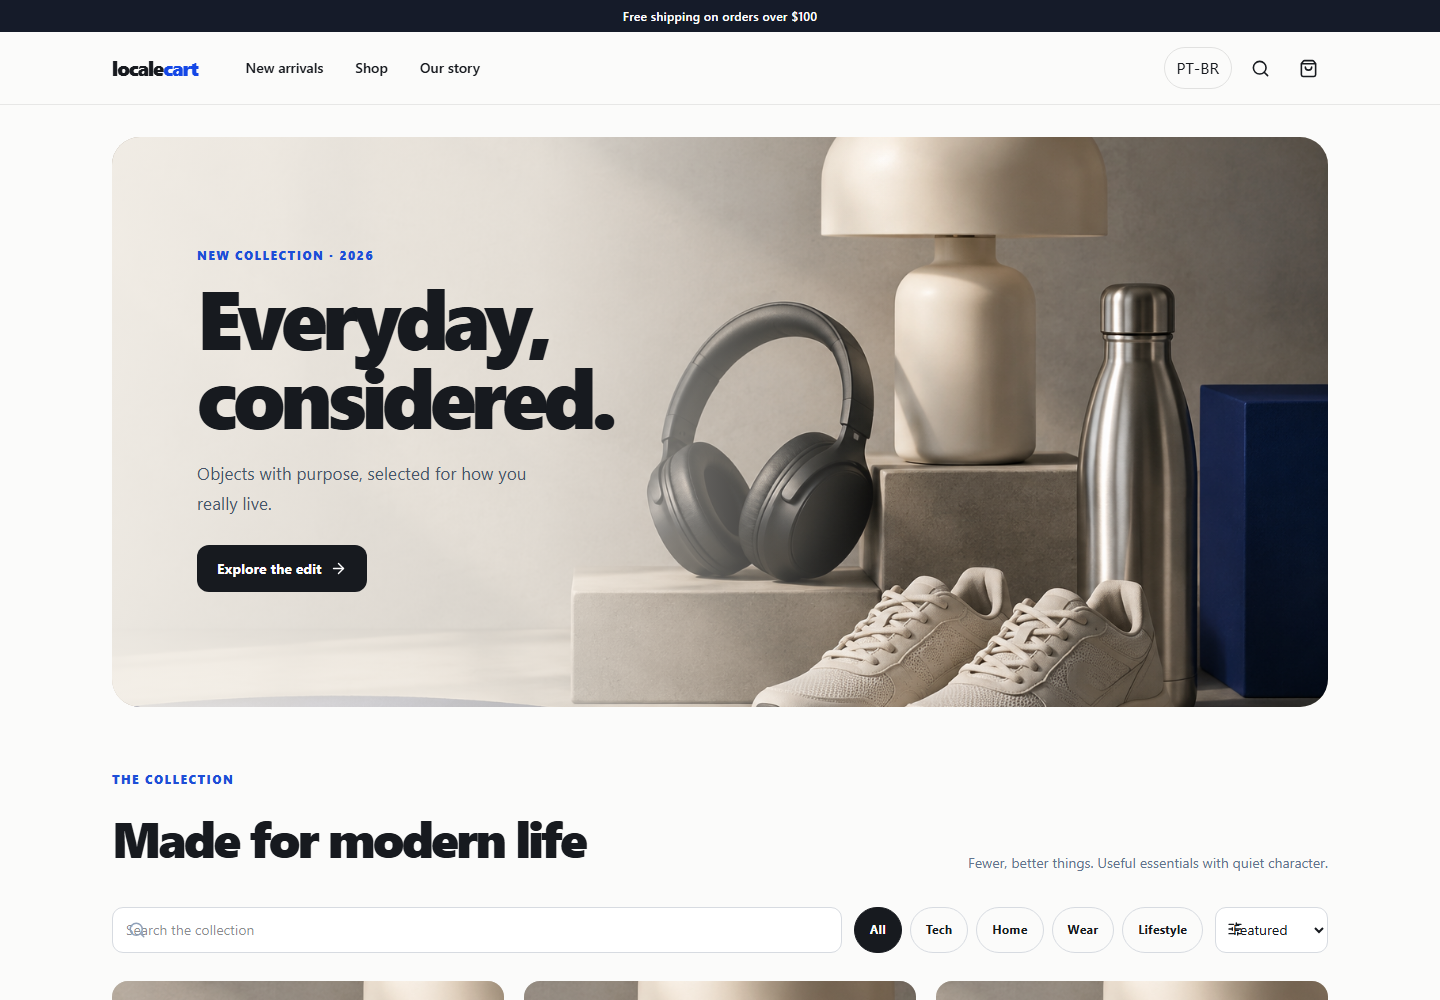
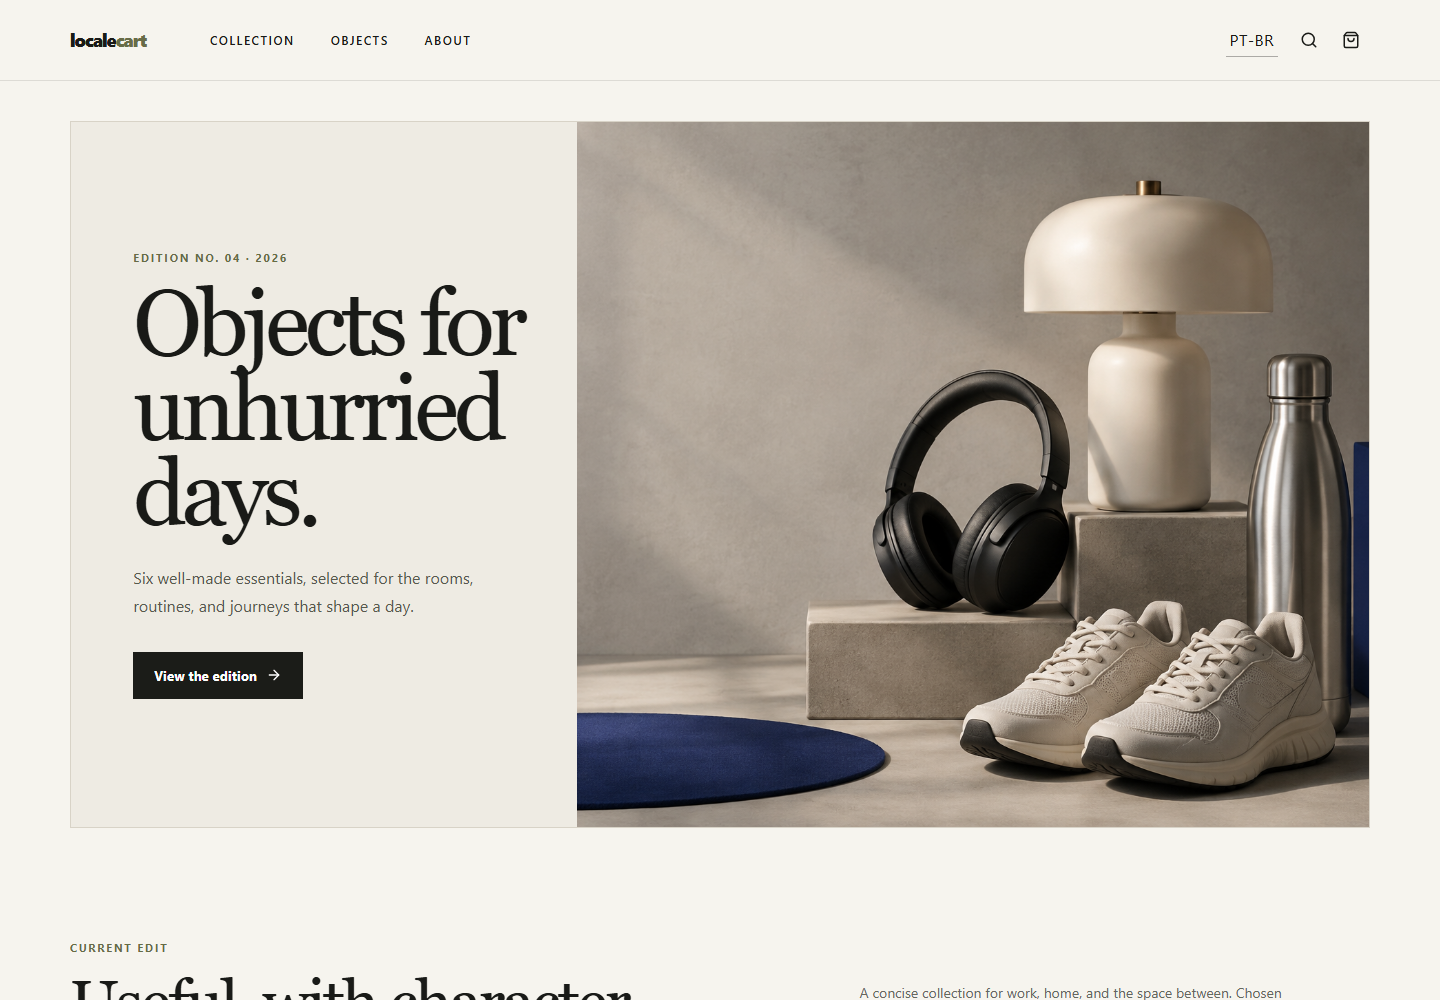
style: refine visual identity and portfolio presentation

diff --git a/src/styles.css b/src/styles.css
@@ -1,2 +1,65 @@
 @import "tailwindcss";
-:root{font-family:Inter,ui-sans-serif,system-ui,-apple-system,"Segoe UI",sans-serif;background:#fbfbfa;color:#171a1f;font-synthesis:none}*{box-sizing:border-box}html{scroll-behavior:smooth}body{margin:0;min-width:320px}button,input,select{font:inherit}button{cursor:pointer}.icon-btn{display:grid;height:40px;width:40px;place-items:center;border-radius:999px}.icon-btn:hover{background:#eef0f3}.cart-count{position:absolute;right:-1px;top:-2px;display:grid;height:18px;min-width:18px;place-items:center;border-radius:99px;background:#1d4ed8;padding:0 4px;font-size:10px;color:white}.hero{position:relative;min-height:570px;overflow:hidden;border-radius:28px;background:#ded8cf}.hero>img{position:absolute;inset:0;height:100%;width:100%;object-fit:cover}.hero:after{content:"";position:absolute;inset:0;background:linear-gradient(90deg,rgba(245,241,234,.92) 0%,rgba(245,241,234,.72) 35%,transparent 65%)}.hero-copy{position:relative;z-index:1;max-width:520px;padding:110px 7%}.hero-copy h1,.product-title{font-size:clamp(2.7rem,6vw,5.2rem);line-height:.95;font-weight:850;letter-spacing:-.065em}.hero-copy>p:not(.eyebrow){margin-top:24px;max-width:430px;font-size:1.08rem;line-height:1.7;color:#475569}.eyebrow{margin-bottom:12px;font-size:.72rem;font-weight:800;letter-spacing:.15em;text-transform:uppercase;color:#1d4ed8}.btn-dark{display:inline-flex;align-items:center;justify-content:center;gap:9px;border-radius:12px;background:#171a1f;padding:13px 20px;color:#fff;font-size:.875rem;font-weight:750}.hero .btn-dark{margin-top:28px}.section-title{font-size:clamp(2rem,4vw,3.1rem);font-weight:820;letter-spacing:-.05em}.field{width:100%;height:46px;border:1px solid #d7dbe1;border-radius:11px;background:white;padding:0 13px;font-size:.875rem;outline:none}.field:focus{border-color:#2563eb;box-shadow:0 0 0 3px #2563eb1a}.chip{white-space:nowrap;border:1px solid #d7dbe1;border-radius:999px;padding:10px 15px;font-size:.78rem;font-weight:700}.chip.active{border-color:#171a1f;background:#171a1f;color:white}.variant{display:inline-flex;align-items:center;gap:7px;border:1px solid #d7dbe1;border-radius:9px;padding:10px 14px;font-size:.82rem;font-weight:700}.variant.active{border-color:#1d4ed8;background:#eff6ff;color:#1d4ed8}.product-title{font-size:clamp(2.6rem,5vw,4.5rem)}.quantity{display:flex;align-items:center;border:1px solid #d7dbe1;border-radius:10px}.quantity button,.product-title+div button{padding:10px}.quantity svg,.product-title+div svg{width:15px}.quantity span{min-width:30px;text-align:center;font-weight:700}.empty{display:flex;min-height:65vh;flex-direction:column;align-items:center;justify-content:center;gap:18px;padding:30px;text-align:center}.empty h1{font-size:clamp(2rem,5vw,3.5rem);font-weight:850;letter-spacing:-.05em}.empty p{max-width:520px;line-height:1.7;color:#64748b}@media(max-width:700px){.hero{min-height:520px}.hero:after{background:linear-gradient(90deg,rgba(245,241,234,.93),rgba(245,241,234,.75))}.hero>img{object-position:65% center;opacity:.55}.hero-copy{padding:90px 24px}.hero-copy h1{font-size:3rem}}
+
+:root {
+  font-family: Inter, ui-sans-serif, system-ui, -apple-system, "Segoe UI", sans-serif;
+  background: #f6f4ee;
+  color: #191a17;
+  font-synthesis: none;
+}
+
+* { box-sizing: border-box; }
+html { scroll-behavior: smooth; }
+body { margin: 0; min-width: 320px; background: #f6f4ee; }
+button, input, select { font: inherit; }
+button { cursor: pointer; }
+.serif { font-family: Georgia, "Times New Roman", serif; }
+
+.icon-btn { display: grid; height: 38px; width: 38px; place-items: center; border-radius: 0; }
+.icon-btn:hover { background: #ebe8df; }
+.cart-count { position: absolute; right: -1px; top: -2px; display: grid; height: 17px; min-width: 17px; place-items: center; border-radius: 99px; background: #8b4f3f; padding: 0 4px; font-size: 10px; color: white; }
+
+.hero { position: relative; min-height: 610px; overflow: hidden; border: 1px solid #d8d3c7; background: #eeebe3; }
+.hero > img { position: absolute; inset: 0 0 0 auto; height: 100%; width: 61%; object-fit: cover; object-position: 64% center; }
+.hero::after { display: none; }
+.hero-copy { position: relative; z-index: 1; width: 47%; max-width: 570px; padding: 128px 4.8%; }
+.hero-copy h1, .product-title { font-family: Georgia, "Times New Roman", serif; font-size: clamp(3.1rem, 6.4vw, 6rem); line-height: .92; font-weight: 500; letter-spacing: -.055em; }
+.hero-copy > p:not(.eyebrow) { margin-top: 28px; max-width: 390px; font-size: 1rem; line-height: 1.75; color: #57594f; }
+.eyebrow { margin-bottom: 15px; font-size: .68rem; font-weight: 750; letter-spacing: .17em; text-transform: uppercase; color: #666b45; }
+.btn-dark { display: inline-flex; align-items: center; justify-content: center; gap: 9px; border-radius: 0; background: #1b1c18; padding: 14px 21px; color: #fff; font-size: .8rem; font-weight: 720; letter-spacing: .02em; }
+.btn-dark:hover { background: #5e6243; }
+.hero .btn-dark { margin-top: 32px; }
+.section-title { font-family: Georgia, "Times New Roman", serif; font-size: clamp(2.5rem, 4.5vw, 4rem); font-weight: 500; line-height: 1; letter-spacing: -.045em; }
+
+.field { width: 100%; height: 44px; border: 0; border-bottom: 1px solid #aaa99f; border-radius: 0; background: transparent; padding: 0 10px; font-size: .82rem; outline: none; }
+.field:focus { border-color: #5e6243; box-shadow: none; }
+.chip { white-space: nowrap; border: 0; border-bottom: 1px solid transparent; border-radius: 0; padding: 11px 8px 8px; font-size: .75rem; font-weight: 680; color: #77786f; }
+.chip.active { border-color: #1b1c18; background: transparent; color: #1b1c18; }
+.variant { display: inline-flex; align-items: center; gap: 7px; border: 1px solid #b9b8ae; border-radius: 0; padding: 10px 14px; font-size: .78rem; font-weight: 680; }
+.variant.active { border-color: #626747; background: #e8eadf; color: #4f5436; }
+.product-title { font-size: clamp(2.8rem, 5vw, 4.8rem); }
+.quantity { display: flex; align-items: center; border: 1px solid #b9b8ae; border-radius: 0; }
+.quantity button, .product-title + div button { padding: 10px; }
+.quantity svg, .product-title + div svg { width: 15px; }
+.quantity span { min-width: 30px; text-align: center; font-weight: 700; }
+.empty { display: flex; min-height: 65vh; flex-direction: column; align-items: center; justify-content: center; gap: 18px; padding: 30px; text-align: center; }
+.empty h1 { font-family: Georgia, "Times New Roman", serif; font-size: clamp(2.4rem, 5vw, 4rem); font-weight: 500; letter-spacing: -.04em; }
+.empty p { max-width: 520px; line-height: 1.7; color: #696b61; }
+.rounded-3xl { border-radius: 2px !important; }
+.rounded-2xl { border-radius: 2px !important; }
+.rounded-xl { border-radius: 1px !important; }
+.bg-\[\#f1f2f4\] { background-color: #ebe8df !important; }
+.text-blue-700, .text-blue-800, .text-blue-600 { color: #666b45 !important; }
+.bg-blue-50 { background-color: #eceee4 !important; }
+
+@media (min-width: 1024px) {
+  .product-grid > a:first-child { grid-column: span 2; }
+  .product-grid > a:first-child > div:first-child { aspect-ratio: 2 / 1.15; }
+}
+
+@media (max-width: 700px) {
+  .hero { display: flex; min-height: auto; flex-direction: column-reverse; }
+  .hero > img { position: relative; width: 100%; height: 330px; object-position: 65% center; }
+  .hero-copy { width: 100%; max-width: none; padding: 52px 24px 48px; }
+  .hero-copy h1 { max-width: 330px; font-size: 3.6rem; }
+  .hero-copy > p:not(.eyebrow) { max-width: 310px; }
+}

diff --git a/src/pages/HomePage.tsx b/src/pages/HomePage.tsx
@@ -3,4 +3,16 @@ import {useMemo,useState} from 'react'
 import {ProductCard} from '../components/ProductCard'
 import {categories,products} from '../data/products'
 import {useStore} from '../store/Store'
-export function HomePage(){const{locale}=useStore();const[q,setQ]=useState('');const[category,setCategory]=useState('All');const[sort,setSort]=useState('featured');const visible=useMemo(()=>products.filter(p=>(category==='All'||p.category===category)&&(p.name+p.namePt).toLowerCase().includes(q.toLowerCase())).sort((a,b)=>sort==='low'?a.price-b.price:sort==='high'?b.price-a.price:b.rating-a.rating),[q,category,sort]);return <><section className="mx-auto max-w-7xl px-4 pt-5 md:px-8 md:pt-8"><div className="hero"><img src="/collection.png" alt="Curated everyday products"/><div className="hero-copy"><p className="eyebrow">{locale==='en'?'New collection · 2026':'Nova coleção · 2026'}</p><h1>{locale==='en'?'Everyday, considered.':'O cotidiano, repensado.'}</h1><p>{locale==='en'?'Objects with purpose, selected for how you really live.':'Objetos com propósito, escolhidos para o seu jeito de viver.'}</p><a href="#shop" className="btn-dark">{locale==='en'?'Explore the edit':'Explorar coleção'} <ArrowRight size={17}/></a></div></div></section><section id="shop" className="mx-auto max-w-7xl px-4 py-16 md:px-8"><div className="mb-8 flex flex-wrap items-end justify-between gap-4"><div><p className="eyebrow">{locale==='en'?'The collection':'A coleção'}</p><h2 className="section-title">{locale==='en'?'Made for modern life':'Feito para a vida moderna'}</h2></div><p className="max-w-md text-sm leading-6 text-slate-500">{locale==='en'?'Fewer, better things. Useful essentials with quiet character.':'Menos coisas, melhores escolhas. Essenciais úteis e cheios de personalidade.'}</p></div><div className="mb-7 grid gap-3 lg:grid-cols-[1fr_auto_auto]"><label className="relative"><Search className="absolute left-4 top-3.5 text-slate-400" size={18}/><input className="field pl-11" value={q} onChange={e=>setQ(e.target.value)} placeholder={locale==='en'?'Search the collection':'Buscar na coleção'}/></label><div className="flex gap-2 overflow-x-auto">{categories.map(c=><button key={c} onClick={()=>setCategory(c)} className={`chip ${category===c?'active':''}`}>{c}</button>)}</div><label className="relative"><SlidersHorizontal className="absolute left-3 top-3.5" size={16}/><select className="field pl-9 pr-8" value={sort} onChange={e=>setSort(e.target.value)}><option value="featured">{locale==='en'?'Featured':'Destaques'}</option><option value="low">{locale==='en'?'Price: low':'Menor preço'}</option><option value="high">{locale==='en'?'Price: high':'Maior preço'}</option></select></label></div><div className="grid gap-x-5 gap-y-10 sm:grid-cols-2 lg:grid-cols-3">{visible.map(p=><ProductCard key={p.id} product={p}/>)}</div>{!visible.length&&<div className="py-20 text-center"><b>{locale==='en'?'No products found':'Nenhum produto encontrado'}</b></div>}</section></>}
+
+export function HomePage(){
+  const{locale}=useStore()
+  const[q,setQ]=useState('')
+  const[category,setCategory]=useState('All')
+  const[sort,setSort]=useState('featured')
+  const visible=useMemo(()=>products.filter(p=>(category==='All'||p.category===category)&&(p.name+p.namePt).toLowerCase().includes(q.toLowerCase())).sort((a,b)=>sort==='low'?a.price-b.price:sort==='high'?b.price-a.price:b.rating-a.rating),[q,category,sort])
+  return <><section className="mx-auto max-w-[1380px] px-4 pt-6 md:px-10 md:pt-10"><div className="hero"><img src="/collection.png" alt="Curated everyday products"/><div className="hero-copy"><p className="eyebrow">{locale==='en'?'Edition No. 04 · 2026':'Edição No. 04 · 2026'}</p><h1>{locale==='en'?'Objects for unhurried days.':'Objetos para dias sem pressa.'}</h1><p>{locale==='en'?'Six well-made essentials, selected for the rooms, routines, and journeys that shape a day.':'Seis essenciais bem-feitos para os espaços, rituais e trajetos que formam o dia.'}</p><a href="#shop" className="btn-dark">{locale==='en'?'View the edition':'Ver a edição'} <ArrowRight size={16}/></a></div></div></section>
+    <section id="shop" className="mx-auto max-w-[1380px] px-4 py-20 md:px-10 md:py-28"><div className="mb-12 grid gap-6 border-b border-black/15 pb-9 md:grid-cols-[1.2fr_.8fr] md:items-end"><div><p className="eyebrow">{locale==='en'?'Current edit':'Seleção atual'}</p><h2 className="section-title">{locale==='en'?'Useful, with character.':'Úteis, com personalidade.'}</h2></div><p className="max-w-md text-sm leading-7 text-[#66685e]">{locale==='en'?'A concise collection for work, home, and the space between. Chosen individually; designed to live together.':'Uma coleção concisa para trabalho, casa e o espaço entre os dois. Escolhidos individualmente; pensados em conjunto.'}</p></div>
+      <div className="mb-10 grid gap-4 border-b border-black/10 pb-5 lg:grid-cols-[1fr_auto_auto]"><label className="relative"><Search className="absolute left-1 top-3.5 text-[#77786f]" size={16}/><input className="field pl-7" value={q} onChange={e=>setQ(e.target.value)} placeholder={locale==='en'?'Search objects':'Buscar produtos'}/></label><div className="flex gap-3 overflow-x-auto">{categories.map(c=><button key={c} onClick={()=>setCategory(c)} className={`chip ${category===c?'active':''}`}>{c}</button>)}</div><label className="relative"><SlidersHorizontal className="absolute left-1 top-3.5" size={15}/><select className="field pl-7 pr-7" value={sort} onChange={e=>setSort(e.target.value)}><option value="featured">{locale==='en'?'Curator’s order':'Ordem da curadoria'}</option><option value="low">{locale==='en'?'Price, low first':'Menor preço'}</option><option value="high">{locale==='en'?'Price, high first':'Maior preço'}</option></select></label></div>
+      <div className="product-grid grid gap-x-7 gap-y-14 sm:grid-cols-2 lg:grid-cols-3">{visible.map(p=><ProductCard key={p.id} product={p}/>)}</div>{!visible.length&&<div className="py-20 text-center"><b>{locale==='en'?'No objects match this search.':'Nenhum produto corresponde à busca.'}</b></div>}
+    </section></>
+}

diff --git a/src/components/Layout.tsx b/src/components/Layout.tsx
@@ -2,4 +2,14 @@ import {Menu,Search,ShoppingBag,X} from 'lucide-react'
 import {useState} from 'react'
 import {Link,Outlet} from 'react-router-dom'
 import {useStore} from '../store/Store'
-export function Layout(){const{locale,setLocale,count}=useStore();const[open,setOpen]=useState(false);return <div className="min-h-screen bg-[#fbfbfa] text-[#171a1f]"><div className="bg-[#151b29] px-4 py-2 text-center text-xs font-semibold tracking-wide text-white">{locale==='en'?'Free shipping on orders over $100':'Frete grátis em pedidos acima de $100'}</div><header className="sticky top-0 z-30 border-b border-black/8 bg-[#fbfbfa]/95 backdrop-blur"><div className="mx-auto flex h-18 max-w-7xl items-center px-4 md:px-8"><button aria-label="Menu" className="mr-3 md:hidden" onClick={()=>setOpen(true)}><Menu/></button><Link to="/" className="text-xl font-black tracking-[-.05em]">locale<span className="text-blue-700">cart</span></Link><nav className="ml-12 hidden gap-8 text-sm font-semibold md:flex"><Link to="/">New arrivals</Link><a href="#shop">Shop</a><a href="#story">Our story</a></nav><div className="ml-auto flex items-center gap-2"><button className="rounded-full border border-black/10 px-3 py-2 text-xs font-bold" onClick={()=>setLocale(locale==='en'?'pt':'en')}>{locale==='en'?'PT-BR':'EN'}</button><button aria-label="Search" className="icon-btn"><Search size={19}/></button><Link aria-label="Cart" className="icon-btn relative" to="/cart"><ShoppingBag size={19}/>{count>0&&<span className="cart-count">{count}</span>}</Link></div></div></header>{open&&<div className="fixed inset-0 z-50 bg-white p-6 md:hidden"><div className="flex justify-between"><b className="text-xl">localecart</b><button aria-label="Close" onClick={()=>setOpen(false)}><X/></button></div><nav className="mt-12 grid gap-6 text-2xl font-bold"><Link onClick={()=>setOpen(false)} to="/">{locale==='en'?'New arrivals':'Novidades'}</Link><a onClick={()=>setOpen(false)} href="#shop">Shop</a><Link onClick={()=>setOpen(false)} to="/cart">{locale==='en'?'Cart':'Carrinho'} ({count})</Link></nav></div>}<main><Outlet/></main><footer id="story" className="mt-20 bg-[#151b29] text-white"><div className="mx-auto grid max-w-7xl gap-10 px-6 py-14 md:grid-cols-3"><div><p className="text-xl font-black">localecart</p><p className="mt-3 max-w-xs text-sm leading-6 text-slate-400">{locale==='en'?'Thoughtful objects for better everyday rituals.':'Objetos especiais para melhores rituais cotidianos.'}</p></div><div><b className="text-sm">Shop</b><p className="mt-3 text-sm text-slate-400">Home · Tech · Wear</p></div><div><b className="text-sm">Stay in the loop</b><div className="mt-3 flex"><input className="min-w-0 flex-1 rounded-l-lg bg-white/10 px-3 py-2 text-sm" placeholder="Email address"/><button className="rounded-r-lg bg-blue-600 px-4 text-sm font-bold">Join</button></div></div></div></footer></div>}
+
+export function Layout(){
+  const{locale,setLocale,count}=useStore()
+  const[open,setOpen]=useState(false)
+  return <div className="min-h-screen bg-[#f6f4ee] text-[#191a17]">
+    <header className="sticky top-0 z-30 border-b border-black/10 bg-[#f6f4ee]"><div className="mx-auto flex h-20 max-w-[1380px] items-center px-4 md:px-10"><button aria-label="Menu" className="mr-3 md:hidden" onClick={()=>setOpen(true)}><Menu/></button><Link to="/" className="text-lg font-black tracking-[-.055em]">locale<span className="text-[#686c47]">cart</span></Link><nav className="ml-16 hidden gap-9 text-[12px] font-semibold uppercase tracking-[.12em] md:flex"><Link to="/">{locale==='en'?'Collection':'Coleção'}</Link><a href="#shop">{locale==='en'?'Objects':'Produtos'}</a><a href="#story">{locale==='en'?'About':'Sobre'}</a></nav><div className="ml-auto flex items-center gap-1"><button className="mr-2 border-b border-black/30 px-1 py-1 text-[11px] font-bold tracking-wide" onClick={()=>setLocale(locale==='en'?'pt':'en')}>{locale==='en'?'PT-BR':'EN'}</button><button aria-label="Search" className="icon-btn"><Search size={18}/></button><Link aria-label="Cart" className="icon-btn relative" to="/cart"><ShoppingBag size={18}/>{count>0&&<span className="cart-count">{count}</span>}</Link></div></div></header>
+    {open&&<div className="fixed inset-0 z-50 bg-[#f6f4ee] p-6 md:hidden"><div className="flex justify-between"><b className="text-lg">localecart</b><button aria-label="Close" onClick={()=>setOpen(false)}><X/></button></div><nav className="serif mt-16 grid gap-7 text-3xl"><Link onClick={()=>setOpen(false)} to="/">{locale==='en'?'Collection':'Coleção'}</Link><a onClick={()=>setOpen(false)} href="#shop">{locale==='en'?'Objects':'Produtos'}</a><Link onClick={()=>setOpen(false)} to="/cart">{locale==='en'?'Cart':'Carrinho'} ({count})</Link></nav></div>}
+    <main><Outlet/></main>
+    <footer id="story" className="mt-24 border-t border-black/15"><div className="mx-auto grid max-w-[1380px] gap-10 px-6 py-14 md:grid-cols-[1.5fr_1fr_1fr] md:px-10"><div><p className="text-lg font-black">localecart</p><p className="mt-3 max-w-sm text-sm leading-6 text-[#696b61]">{locale==='en'?'Independent objects chosen for usefulness, material honesty, and a long life.':'Objetos independentes escolhidos pela utilidade, materiais honestos e longa vida.'}</p></div><div><b className="text-[11px] uppercase tracking-[.14em]">{locale==='en'?'Browse':'Navegar'}</b><p className="mt-4 text-sm text-[#696b61]">Home · Tech · Wear</p></div><div><b className="text-[11px] uppercase tracking-[.14em]">{locale==='en'?'Dispatch':'Envio'}</b><p className="mt-4 text-sm leading-6 text-[#696b61]">{locale==='en'?'Orders leave our studio within two working days.':'Pedidos saem do nosso estúdio em até dois dias úteis.'}</p></div></div></footer>
+  </div>
+}

diff --git a/src/components/ProductCard.tsx b/src/components/ProductCard.tsx
@@ -1,5 +1,9 @@
-import {ArrowUpRight,Star} from 'lucide-react'
+import {Star} from 'lucide-react'
 import {Link} from 'react-router-dom'
 import type {Product} from '../data/products'
 import {useStore} from '../store/Store'
-export function ProductCard({product}:{product:Product}){const{locale}=useStore();return <Link to={`/product/${product.id}`} className="group block"><div className="relative aspect-[4/4.5] overflow-hidden rounded-2xl" style={{background:product.color}}><img src="/collection.png" alt={locale==='en'?product.name:product.namePt} className="h-full w-full scale-[1.65] object-cover transition duration-500 group-hover:scale-[1.72]" style={{objectPosition:product.position}}/><span className="absolute right-3 top-3 grid h-9 w-9 place-items-center rounded-full bg-white/90 opacity-0 transition group-hover:opacity-100"><ArrowUpRight size={17}/></span></div><div className="mt-3 flex items-start"><div><h3 className="font-bold">{locale==='en'?product.name:product.namePt}</h3><p className="mt-1 text-sm text-slate-500">{locale==='en'?product.category:product.categoryPt}</p></div><div className="ml-auto text-right"><b>${product.price}</b><p className="mt-1 flex items-center justify-end gap-1 text-xs text-slate-500"><Star size={12} fill="currentColor"/>{product.rating}</p></div></div></Link>}
+
+export function ProductCard({product}:{product:Product}){
+  const{locale}=useStore()
+  return <Link to={`/product/${product.id}`} className="group block"><div className="relative aspect-[4/5] overflow-hidden border border-black/10" style={{background:product.color}}><img src="/collection.png" alt={locale==='en'?product.name:product.namePt} className="h-full w-full scale-[1.65] object-cover" style={{objectPosition:product.position}}/><span className="absolute bottom-0 left-0 bg-[#f6f4ee] px-3 py-2 text-[10px] font-bold uppercase tracking-[.14em] text-[#666b45]">{locale==='en'?product.category:product.categoryPt}</span></div><div className="mt-4 flex items-start border-t border-black/10 pt-3"><div><h3 className="serif text-xl leading-tight">{locale==='en'?product.name:product.namePt}</h3><p className="mt-2 flex items-center gap-1 text-xs text-[#77786f]"><Star size={11} fill="currentColor"/>{product.rating} · {locale==='en'?'Editor rated':'Seleção editorial'}</p></div><b className="ml-auto pl-5 text-sm">${product.price}</b></div></Link>
+}
